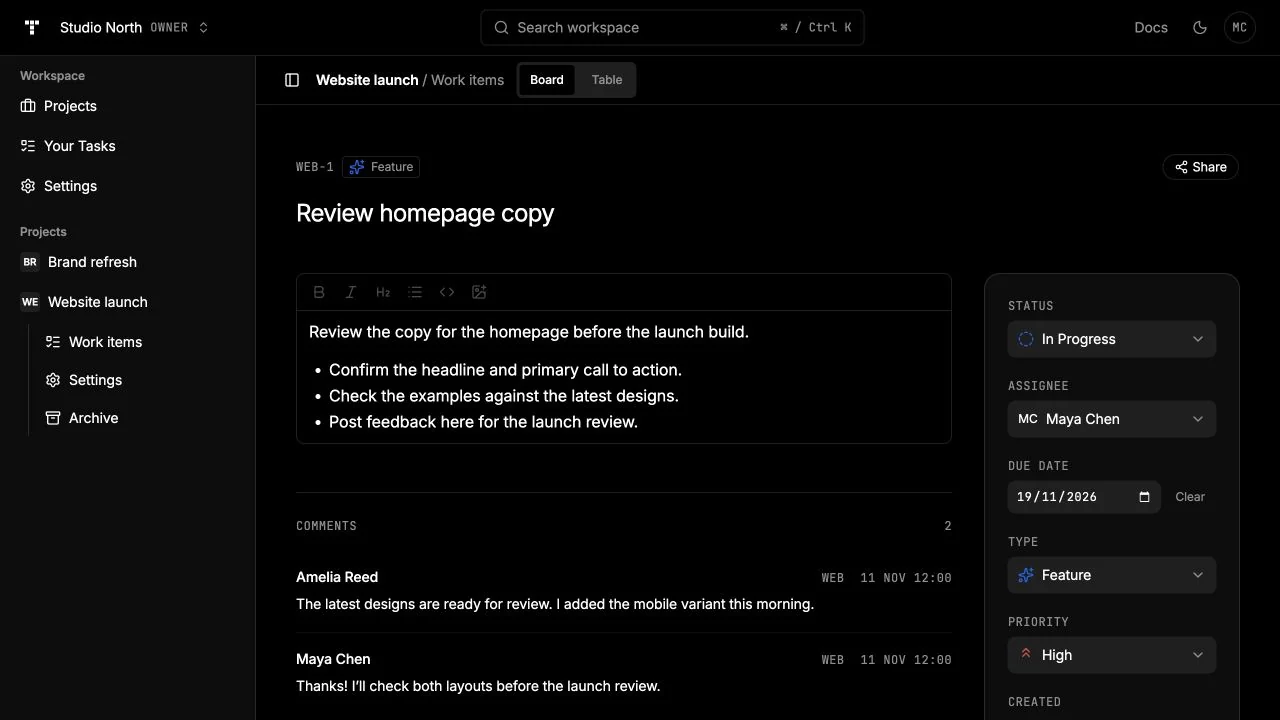
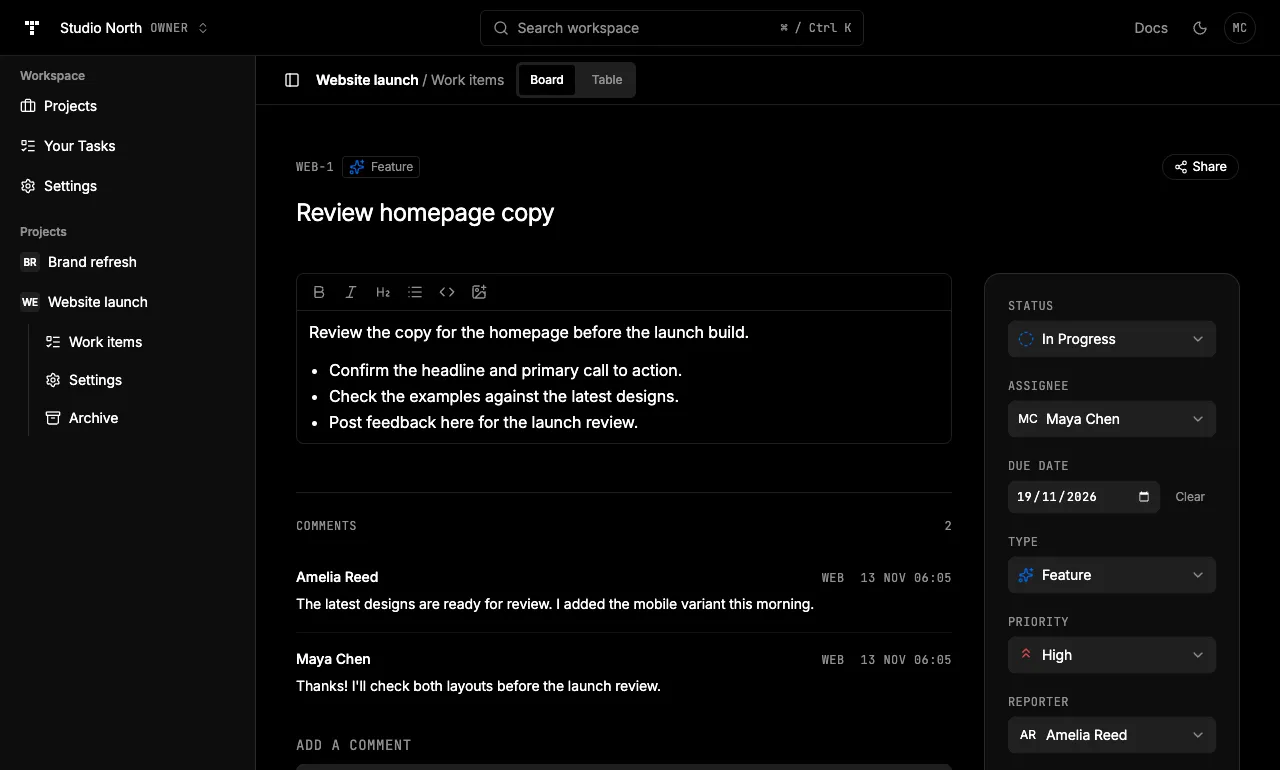
Recapture task detail and filter docs screenshots with the reporter

diff --git a/apps/web/app/docs/work-items/content.tsx b/apps/web/app/docs/work-items/content.tsx
@@ -20,7 +20,7 @@ export const sections: GuideSection[] = [
     content: <>
       <p>Select a work item to open its details. Choose <strong>Open full page</strong> in the dialog when you want more room. Edit the title or description, or use the properties panel to change the <strong>Status</strong>, <strong>Assignee</strong>, <strong>Reporter</strong>, <strong>Due date</strong>, <strong>Type</strong>, or <strong>Priority</strong>.</p>
       <p>The <strong>Reporter</strong> is the person who asked for the work. It starts as the person who created the task, and you can change it to any organization member. <strong>Created by</strong> always shows who created the task.</p>
-      <Screenshot name="task-detail" alt="A work item with a description, task properties, and comments" caption="Edit task details in the properties panel and keep discussion in Comments." />
+      <Screenshot name="task-detail" alt="A work item with a description, task properties including the reporter, and comments" caption="Edit task details in the properties panel and keep discussion in Comments." />
       <p>Use the description toolbar for headings, bold text, lists, or inline code. Descriptions are stored as Markdown. To add a screenshot or other image, paste it into the editor or choose <strong>Add image</strong> in the toolbar. Images can be up to 5 MB and require project access to view.</p>
       <Note>When a project restricts task editing, the creator, reporter, current assignee, and admins of the project or organization can edit. Other members can still view the task and comment. See <DocLink topic="project-settings" section="task-editing">Project settings</DocLink> for the toggle.</Note>
     </>,

diff --git a/apps/web/app/docs/views/content.tsx b/apps/web/app/docs/views/content.tsx
@@ -34,7 +34,7 @@ export const sections: GuideSection[] = [
         <li>Choose <strong>Filters</strong> and select a project from <strong>All projects</strong>. On <strong>All My Tasks</strong>, project names include their organization so you can tell similarly named projects apart.</li>
         <li>Combine the project with other filters as needed. Choose <strong>Clear filters</strong> to start over.</li>
       </Steps>
-      <Screenshot name="task-filters" alt="Task list Filters menu with the project selector" caption="Use the project selector to narrow an assignment view to one project." />
+      <Screenshot name="task-filters" alt="Task list Filters menu with the project, assignee, creator, and reporter selectors" caption="Use the project selector to narrow an assignment view to one project." />
       <p>TasksHQ remembers filters in the current browser, so the same selection is available when you return to that view.</p>
     </>,
   },

diff --git a/apps/web/app/docs/guide.tsx b/apps/web/app/docs/guide.tsx
@@ -123,7 +123,7 @@ export function CodeBlock({ children }: { children: string }) {
 
 const screenshotSizes = {
   board: [1280, 635],
-  "task-detail": [1280, 720],
+  "task-detail": [1280, 770],
   "task-filters": [1024, 650],
   "project-statuses": [720, 467],
   "organization-members": [1280, 720],
